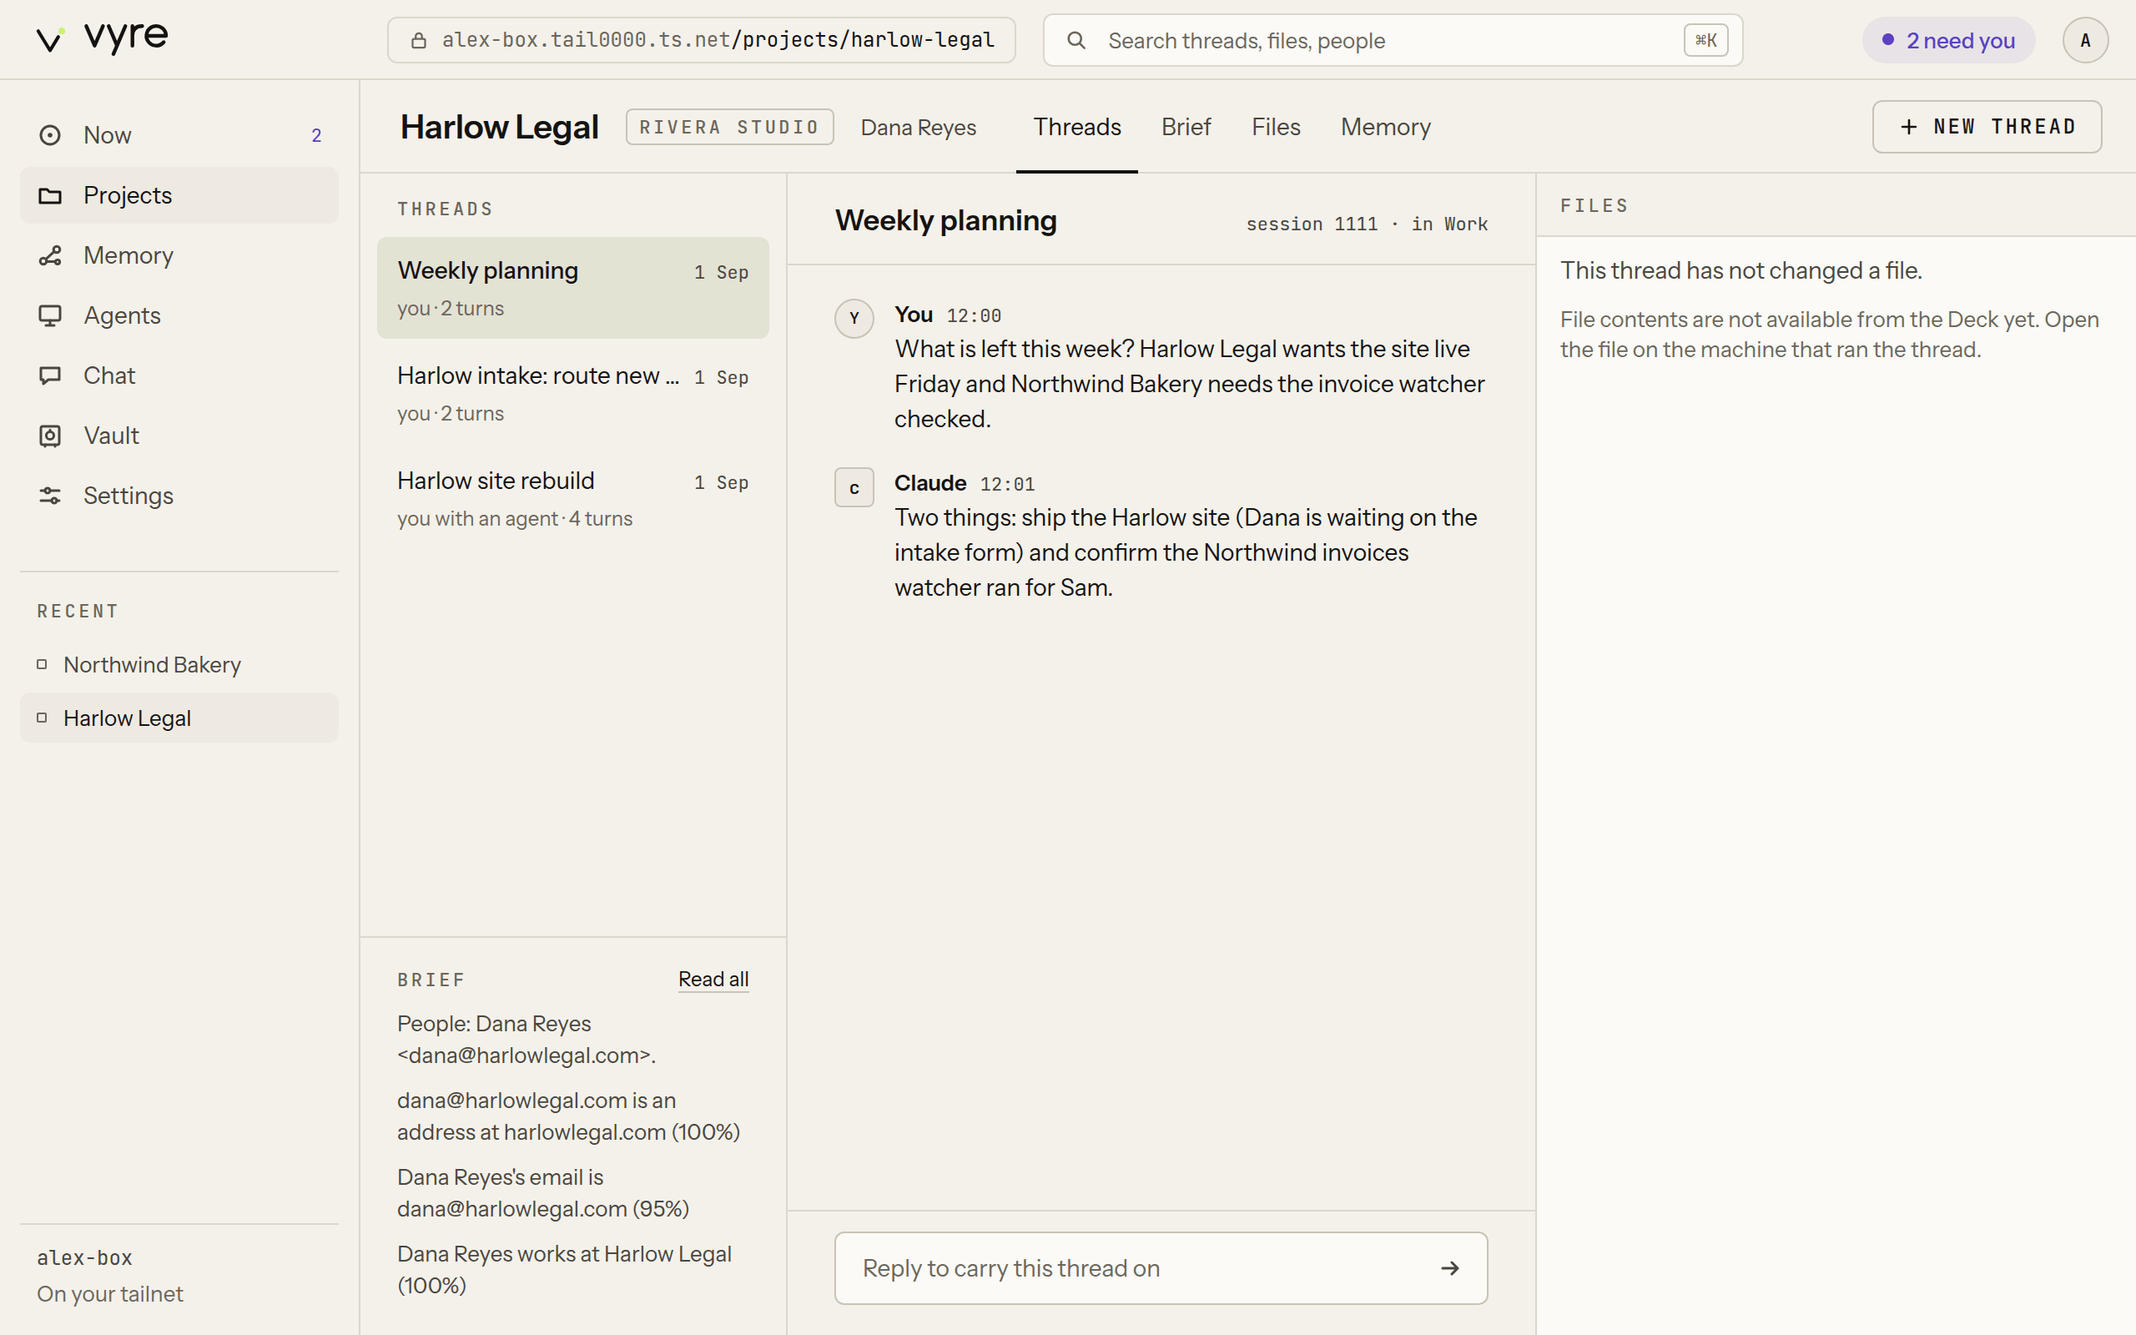
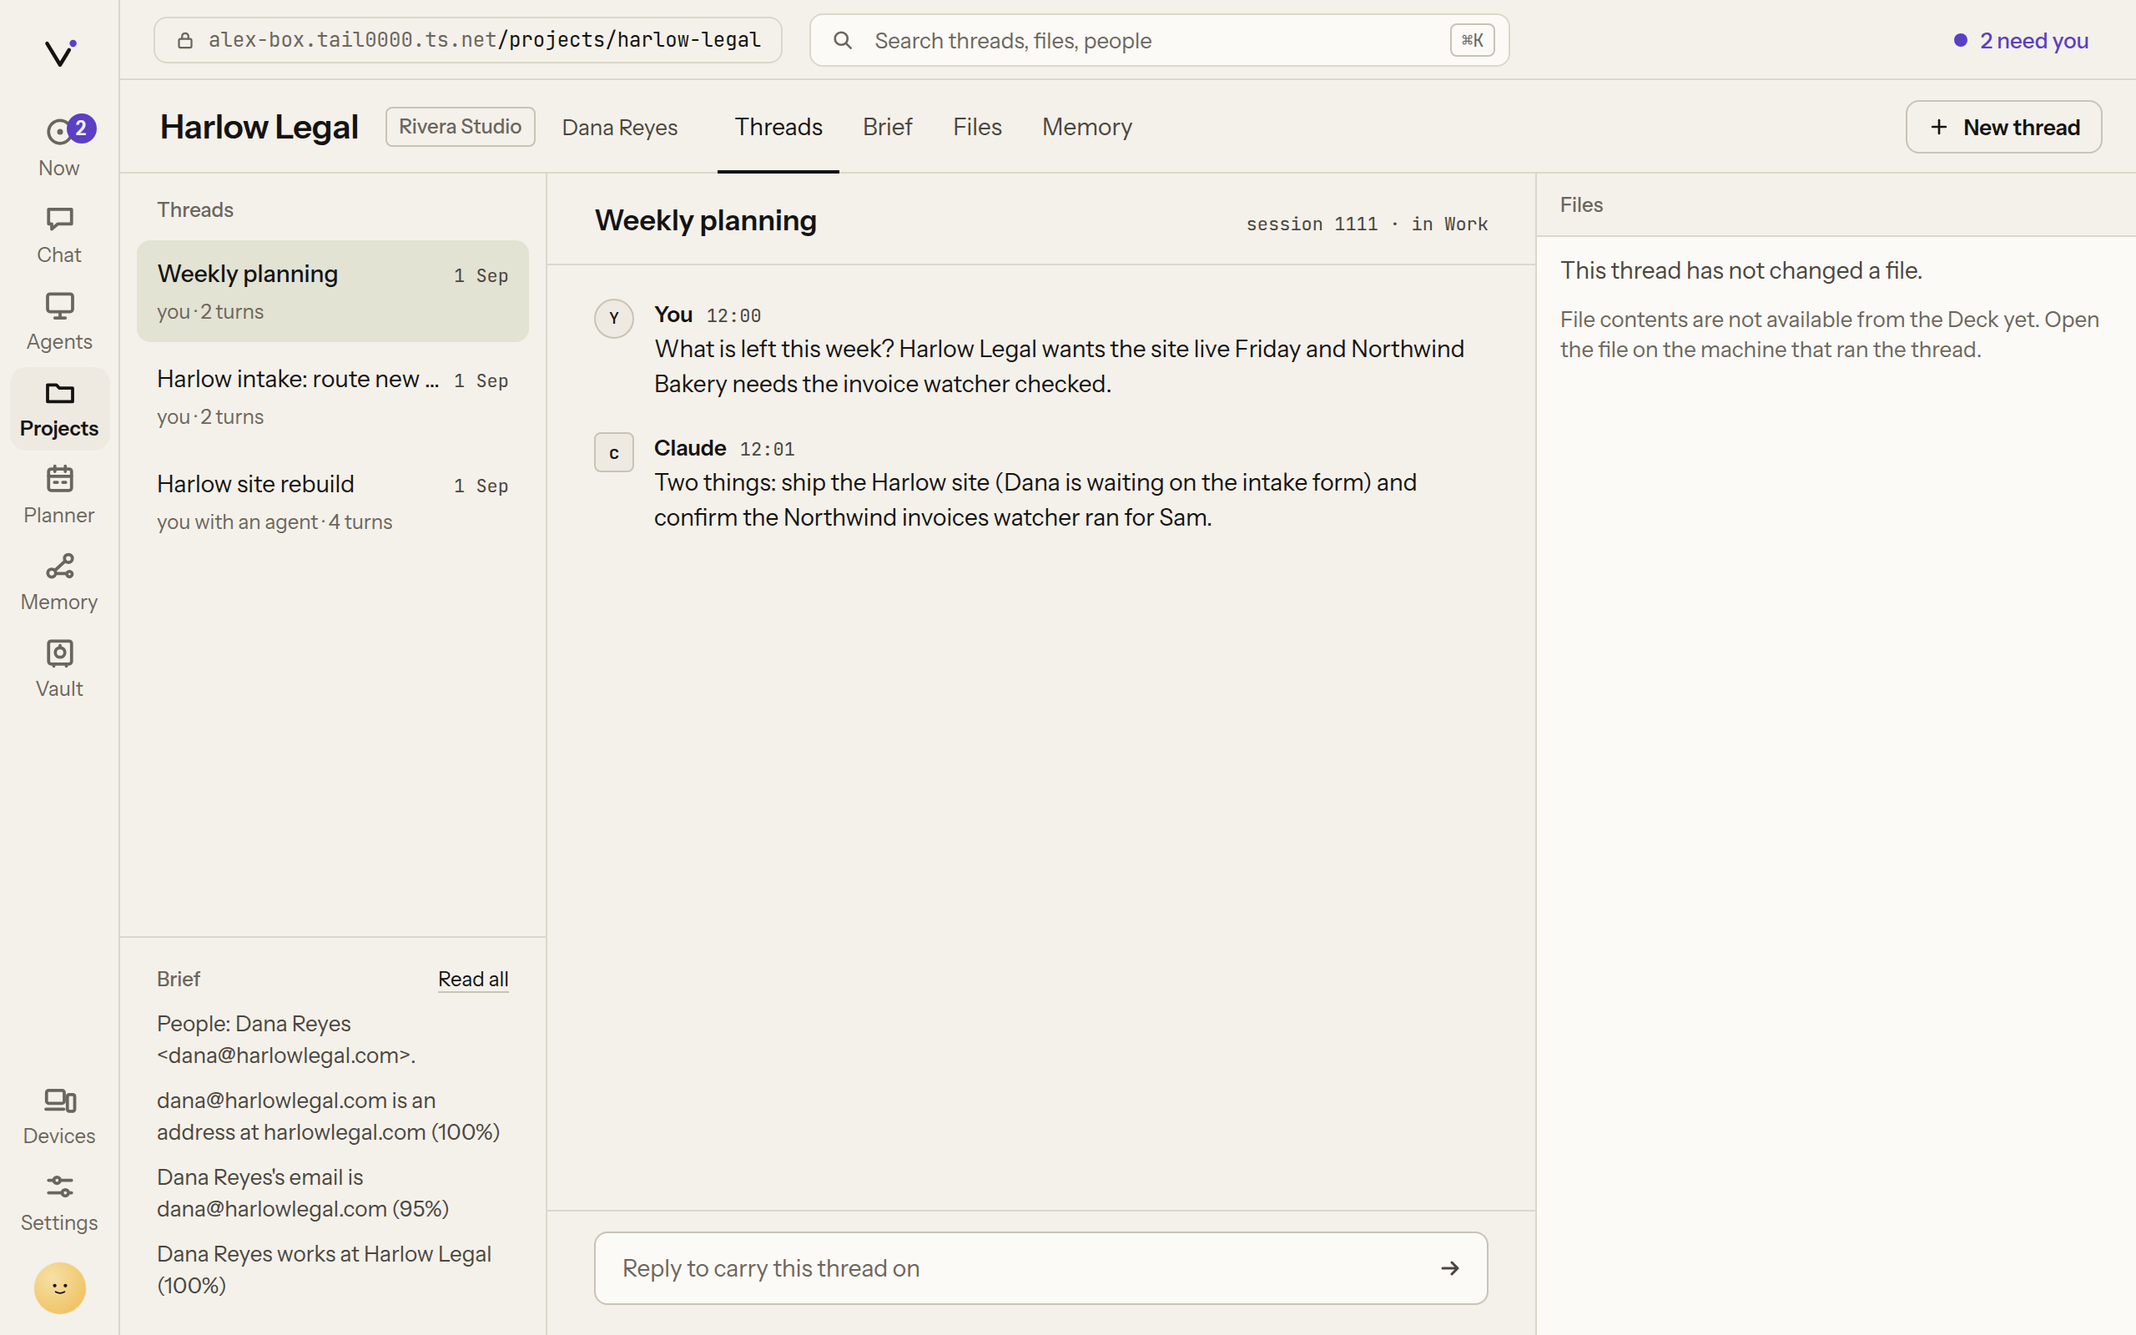
docs(readme,site): fix the relay privacy claim, ship the lead's README draft verbatim
Reviewer held 8ea7dc65 over an overstated "vyre.run only holds a DNS
record" claim in site/index.html (two places), site/llms.txt and
README: a paired phone's session traffic actually rides the relay,
end-to-end encrypted, so the relay sees routing metadata but never
content or keys. Fixed with one consistent fact everywhere, plus
llms.txt's stale Tailscale-auto-setup line to match.

Replaces README.md with team-lead's own verbatim draft (more accurate
than my earlier ones on capsule install, Tailscale, and the
Linux/Windows-only tailnet auto-join in 0.1.1), converting its four
[PICTURE] markers into real images: the Capsule answering from memory,
its project chip, Wink's phone confirm screen (re-rendered with box
name "kit"), and a freshly regenerated Deck-chat shot showing the
current avatar system.

diff --git a/site/index.html b/site/index.html
@@ -454,7 +454,7 @@
   <div class="wrap outside">
     <div class="outside-in">
       <span class="stem" aria-hidden="true"></span>
-      <div class="t"><span class="lbl">Outside the line &#183; vyre.run</span><span class="xs stone">Holds one DNS record for your name. None of your data.</span></div>
+      <div class="t"><span class="lbl">Outside the line &#183; vyre.run</span><span class="xs stone">Holds your DNS record and relays a paired phone&#39;s traffic, end-to-end encrypted. Never your content or keys.</span></div>
     </div>
   </div>
 
@@ -473,7 +473,7 @@
           </details>
           <details>
             <summary>Where does my data live?</summary>
-            <p>Your sessions, memory and vault stay on your server and your Mac. vyre.run only holds one DNS record for your name, so your address can find your server; none of that data passes through it. Your prompts still go to Anthropic's API through Claude Code, exactly as they would if you ran Claude Code directly.</p>
+            <p>Your sessions, memory and vault stay on your server and your Mac. vyre.run holds your name&#39;s DNS record and runs the relay (relay.vyre.run). A phone paired by scanning reaches your server through that relay, end-to-end encrypted: it can see that your phone and your server talk, and when, but never what&#39;s said, and never your keys. Your prompts still go to Anthropic&#39;s API through Claude Code, exactly as they would if you ran Claude Code directly.</p>
           </details>
           <details>
             <summary>Do I need a server?</summary>

diff --git a/README.md b/README.md
@@ -7,99 +7,80 @@
 
 **Your agents live on your server. Reach them from your Mac or your phone.**
 
-Vyre is an open-source, self-hosted home for Claude Code agents. They run on a server you own,
-keep working when your laptop is closed, and answer when you press Option-Space on your Mac or
-open Vyre on your phone.
+Vyre is an open-source, self-hosted home for Claude Code agents. They run on a server you own, keep working when your laptop is closed, and answer when you press Option-Space on your Mac or open Vyre on your phone.
 
-Your API keys stay in an encrypted vault on that server. Anything that sends a message, posts or
-pays waits for your Touch ID or Face ID.
+Your API keys stay in an encrypted vault on that server. Anything that sends a message, posts or pays waits for your Touch ID or Face ID.
 
-Under the hood it's a Claude Code plugin plus one small daemon. Vyre doesn't fork or wrap Claude
-Code, so when Claude Code improves, Vyre improves with it.
+<picture>
+  <img src="docs/images/readme/capsule-ask.png" alt="The Mac Capsule's command bar answering &quot;what is on the Northwind Bakery menu&quot; from a past session, with that session linked below the answer" width="600">
+</picture>
+
+## Install
+
+On the Linux server that will run your agents:
 
 ```
 curl -fsSL https://vyre.run/install.sh | sh
 vyre up
 ```
 
-On a Mac: `npm install -g https://vyre.run/box/vyre.tgz && vyre up`.
+On your Mac, with Tailscale installed and signed in:
 
-`vyre up` finds your Tailscale network (or sets one up), asks for a name, and gives you an
-address: `<you>.vyre.run`.
+```
+npm install -g https://vyre.run/box/vyre.tgz
+vyre up
+vyre capsule install
+```
 
-## Who it's for
+`vyre up` connects your Mac to your server. `vyre capsule install` builds the Capsule on your Mac; nothing is downloaded for it. Vyre never changes your Mac's Tailscale settings. Step by step: [Install](docs/get-started/install.md).
 
-Anyone running Claude Code who has closed a laptop mid-session and lost the agent that was still
-working, or who wants one server that remembers every session instead of a folder of local
-transcripts.
+## On your Mac: the Capsule
 
-## What you get
+Press Option-Space in any app. Ask a question, send work to one of your agents, or run a `vyre` command. Answers show which past session they came from, and the Capsule knows which project you are working in.
 
-- **The Mac Capsule.** Option-Space anywhere on your Mac opens a command bar wired straight to
-  your server. Ask it something and it answers from your memory, with the session it pulled the
-  answer from linked below.
+<picture>
+  <img src="docs/images/readme/capsule-chip.png" alt="The Capsule's project chip: 'Ask Vyre, find, or run' with the current project, Northwind Bakery, shown at the top right" width="420">
+</picture>
 
-  <picture>
-    <img src="docs/images/readme/capsule-ask.png" alt="The Mac Capsule's command bar answering &quot;what is on the Northwind Bakery menu&quot; from a past session, with that session linked below the answer" width="600">
-  </picture>
+## On your phone: pair by scanning your avatar
 
-  It lives in your menu bar, and quits the same way any other menu bar app does.
+Open [phone.vyre.run](https://phone.vyre.run) and point the camera at the ring around your avatar on your Mac or in the browser. Your phone shows your server's name and fingerprint, and pairs only after you tap Pair. After that you can follow sessions, answer your agents' questions and approve actions from your phone.
 
-  <picture>
-    <img src="docs/images/readme/capsule-menu.png" alt="The Vyre Capsule's menu bar dropdown: the signed-in person, vyred running, Open Capsule (Option-Space) and Quit Vyre Capsule" width="420">
-  </picture>
+<picture>
+  <img src="docs/images/readme/wink-confirm.png" alt="Wink's confirm screen on a phone: 'Pair with kit? Code a1b2 c3d4', with Pair and Not this one buttons" width="360">
+</picture>
 
-- **Your phone, paired by Wink.** Open [phone.vyre.run](https://phone.vyre.run) on your phone and
-  scan the ring around your avatar on the Deck. Your phone shows you the box's name and a short
-  code before you confirm.
+## On your server: your agents
 
-  <picture>
-    <img src="docs/images/readme/wink-confirm.png" alt="Wink's confirm screen on a phone: 'Pair with alex-box? Code a1b2 c3d4', with Pair and Not this one buttons" width="360">
-  </picture>
+- **Sessions that outlive your laptop.** Claude Code runs on the server, so closing the lid doesn't stop the work.
+- **Memory across sessions.** Vyre searches what you and your agents said before and shows the session each answer came from.
+- **Teammates.** Give each project its own named agents. They keep their own notes and pick up where they left off.
+- **GitHub.** Sign in with a short code, start a project from one of your repos, or add a repo to a project. Each session works in its own copy of the repo, so parallel sessions don't collide.
+- **The vault.** Agents use a credential without seeing its value. You can share an item with another person's Vyre and revoke it with one command.
+- **Desktops on your tailnet.** After a one-time Tailscale setup on your server, a Linux or Windows desktop you pair joins your tailnet on its own. Macs follow in 0.1.2.
 
-- **Your agents, on your server.** The Deck is the web app at your address. Every project keeps
-  its own threads, and a chat inside one shows who's in it: you and the agent that answered.
+<picture>
+  <img src="docs/images/readme/deck-chat.png" alt="The Deck showing a chat thread inside the Harlow Legal project, with a reply from Claude, your avatar in the sidebar, and the account's other projects listed there too" width="720">
+</picture>
 
-  <picture>
-    <source media="(prefers-color-scheme: dark)" srcset="docs/images/readme/deck-chat.dark.png">
-    <img src="docs/images/readme/deck-chat.png" alt="The Deck showing a chat thread inside the Harlow Legal project, with a reply from Claude and the account's other projects listed in the sidebar" width="720">
-  </picture>
+## What stays private
 
-- **Teammates.** Give an agent its own name and its own projects. `vyre team` lists them, `vyre
-  team ask` sends one work.
-- **Your tailnet, joined automatically.** A desktop you pair over the relay finds your network on
-  its own. No auth key to paste in.
-- **GitHub.** Sign in with a short code, start a project straight from one of your repos, or add
-  a repo to a project you already have. Each session gets its own branch.
-- **A vault.** Credentials agents can use but nobody has to see. Share an item with someone else's
-  Vyre and it's relayed, so one revoke ends their access.
-- **Memory across sessions.** Ask Vyre something and it searches everything you've said before,
-  and shows you which past session an answer came from.
+- Your keys, memory and sessions stay on your server.
+- Your prompts go to Anthropic's API through Claude Code, the same as when you run Claude Code on its own.
+- Your server opens no port to the internet. Your Mac reaches it over Tailscale.
+- A phone you pair by scanning reaches your server through our relay at relay.vyre.run. That traffic is end-to-end encrypted, so the relay can see that your phone and server talk, and when, but never what is said or your keys.
 
 ## Questions
 
-**What is Vyre?** An open-source daemon plus a Claude Code plugin. Together they give your
-agents a permanent home: a server, instead of a laptop that closes.
+**What is Vyre?** A daemon and a Claude Code plugin that give your Claude Code agents a permanent home on a server you own, plus the Capsule for your Mac and an app for your phone. It doesn't fork Claude Code, so Claude Code updates reach you directly.
 
-**What do I need to run it?** A machine to act as your server (a spare Mac, a VPS, a home
-server) and Node 22.5 or newer. `vyre up` sets up Tailscale for you if you don't already run it.
+**What do I need?** A Linux server (a VPS, a home server or a spare machine), a Mac, Tailscale, and a Claude account. Your phone is optional.
 
-**What does it cost?** Vyre itself is free and open source. You pay Anthropic for Claude the
-same way you would running Claude Code directly.
+**What does it cost?** Vyre is free and open source under Apache 2.0. You pay Anthropic for Claude as you do today.
 
-**What leaves my server?** Your prompts go to Anthropic's API through Claude Code, exactly as
-they would if you ran Claude Code directly on your laptop. Your keys, memory and sessions stay
-on your server. The relay that pairs a new device only ever passes encrypted pairing data; it
-never sees your keys or your conversations.
+**Is it secure?** Your server opens no public port, your keys are encrypted at rest, phone traffic through the relay is end-to-end encrypted, and every send, post, payment or new device needs your Touch ID or Face ID. Details: [Security](docs/security/index.md).
 
-**How do I add my phone?** Open [phone.vyre.run](https://phone.vyre.run) on your phone, scan the
-ring around your avatar on the Deck or in onboarding, check the name it shows you, and tap Pair.
-
-## Status
-
-Early. The daemon, module loader, event log and CLI work (milestone M0). See
-[`docs/SPEC.md`](docs/SPEC.md) for the design and the milestones, and
-[`docs/work/`](docs/work/) for what each workstream is doing now.
+**How do I add my phone?** Open phone.vyre.run on the phone, scan the ring around your avatar, check the name and fingerprint, and tap Pair.
 
 ## Develop
 
@@ -112,8 +93,8 @@ bin/vyre call system.echo '{"text":"hi"}'
 bin/vyre down
 ```
 
-Write a module: [`docs/MODULES.md`](docs/MODULES.md).
+Write a module: [docs/MODULES.md](docs/MODULES.md). What each team is building now: [docs/work/](docs/work/).
 
-## Licence
+## License
 
-Apache 2.0. See [`LICENSE`](LICENSE).
+Apache 2.0. See [LICENSE](LICENSE).

diff --git a/docs/work/readme-011.md b/docs/work/readme-011.md
@@ -105,8 +105,55 @@ bullets as text only) and built exactly the three the user cares about:
   the account's other projects in the sidebar, so it covers "Deck chat with avatars and project
   tiles" on its own).
 
+## Round 4: reviewer's relay HOLD + team-lead's own README draft
+Two things landed together:
+
+1. Reviewer HELD 8ea7dc65 (MEDIUM, public claim accuracy): site/index.html, site/llms.txt and
+   README all overstated "vyre.run holds one DNS record and nothing else" - a paired phone's
+   ongoing session traffic actually stays on the relay (relay.vyre.run, ADR 0046), end-to-end
+   encrypted, so the relay sees routing metadata (who talks, when) but never content or keys.
+   Fixed in all three places with the same fact, reviewer's suggested wording adapted to each
+   surface's voice: site/index.html's FAQ answer, its short "outside the line" diagram caption
+   (a second, shorter overstatement of the same claim I found while fixing the FAQ one), and
+   site/llms.txt's Data section (also fixed llms.txt's Tailscale-auto-setup line to match the
+   README draft's corrected claim: Mac Tailscale setup is manual, Vyre never touches it; only
+   Linux/Windows desktops auto-join the tailnet in 0.1.1, Macs follow in 0.1.2).
+2. team-lead rewrote the README body itself (team/README-0.1.1-draft.md, then updated again with
+   the reviewer's relay wording) after finding stale/inaccurate lines in my drafts. Used it
+   VERBATIM per instruction, only converting the four [PICTURE: ...] markers to real <picture>
+   blocks. Checked every non-obvious factual claim in it against code/docs before shipping
+   (nothing was wrong, so nothing was changed): "vyre capsule install builds the Capsule on your
+   Mac; nothing is downloaded" matches docs/get-started/install.md:373 near-verbatim; "Vyre never
+   changes your Mac's Tailscale settings" matches docs/adr/0014-tailnet.md's "Vyre never changes
+   the tailnet" and install.md:89; "Macs follow in 0.1.2" matches
+   team/BACKLOG-0.1.2.md:6 exactly ("In 0.1.1 only Linux and Windows desktops auto-join... Mac
+   desktops auto-join the tailnet [is 0.1.2]").
+
+Four pictures, all opened and checked before use:
+1. capsule-ask.png: who-2-reply.png (Capsule answering "what is on the Northwind Bakery menu"
+   from a cited past session), unchanged.
+2. capsule-chip.png: chip-top.png, the Capsule's collapsed bar with the Northwind Bakery project
+   chip top right (swapped out my round-3 pick, the menu-bar popover, which wasn't "the project
+   chip").
+3. wink-confirm.png: re-rendered with the sample box name "kit" per this round's instruction
+   (was "alex-box"), same real dom.js/icons.js/pair-scan.js/pair.css method as round 3.
+4. deck-chat.png: re-rendered fresh via `npm run docs:shots -- --only deck-project,deck-chat` on
+   testbox rather than reusing the round-1 shot, since docs:check confirms deck-project.png was
+   stale against deck/index.html, deck.css and views/projects.js, and the point this round was
+   specifically "with the new avatars visible." Confirmed the new render does show the current
+   avatar system (a drawn avatar in the sidebar, not the old plain "A" letter circle) and current
+   sentence-case UI copy. FOUND A REAL BUG in that regeneration, not mine to fix: the light and
+   dark PNGs it produced were byte-identical (same md5) - dark mode never actually applied during
+   that docs:shots run. Rather than ship a mislabeled "dark" image, I dropped the dark variant for
+   this shot and used the single light PNG only. Flagging the bug to team-lead/whoever owns
+   docs:shots; did not touch docs/using/shots/ itself (only copied the regenerated PNG into
+   docs/images/readme/), so the repo's own docs shots are unaffected by this.
+
 ## Next
-- Waiting on reviewer's privacy check before deploying vyre.run (team-lead's instruction: deploy
-  after that check, same deploy the user already approved).
-- Waiting on team-lead reading every line before it ships (their ask).
-- Flag the stale docs/brand/readme-hero*/social-preview*/og-paper assets to app-design/launch.
+- Waiting on reviewer's second privacy/accuracy pass and team-lead's read before deploying
+  vyre.run (their instruction: don't deploy until both).
+- Flag two open items to team-lead: the docs:shots dark-mode bug found above, and the still-stale
+  docs/brand/readme-hero*/social-preview*/og-paper assets (old headline, app-design's pipeline).
+- Did a full pass on the relay/DNS claim everywhere I could find it; only spot-checked the rest
+  of site/index.html's feature-line framing (Mac/phone/server) given time - no other inaccuracies
+  found in what I checked, but I didn't read all ~600 lines line by line this round.
